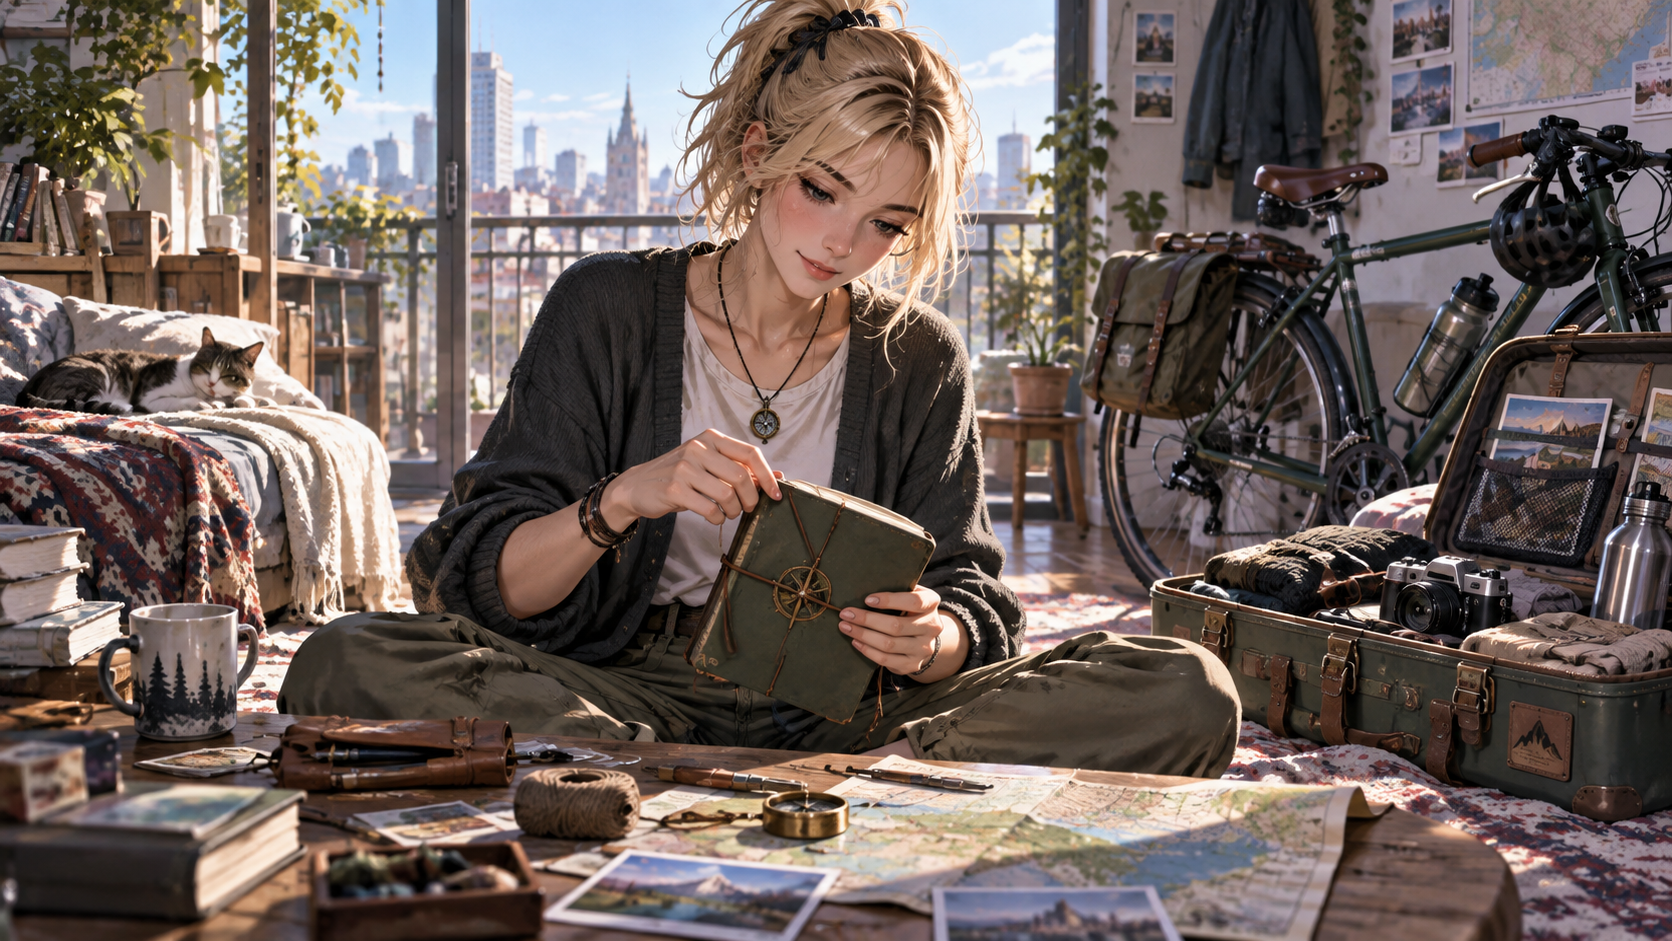
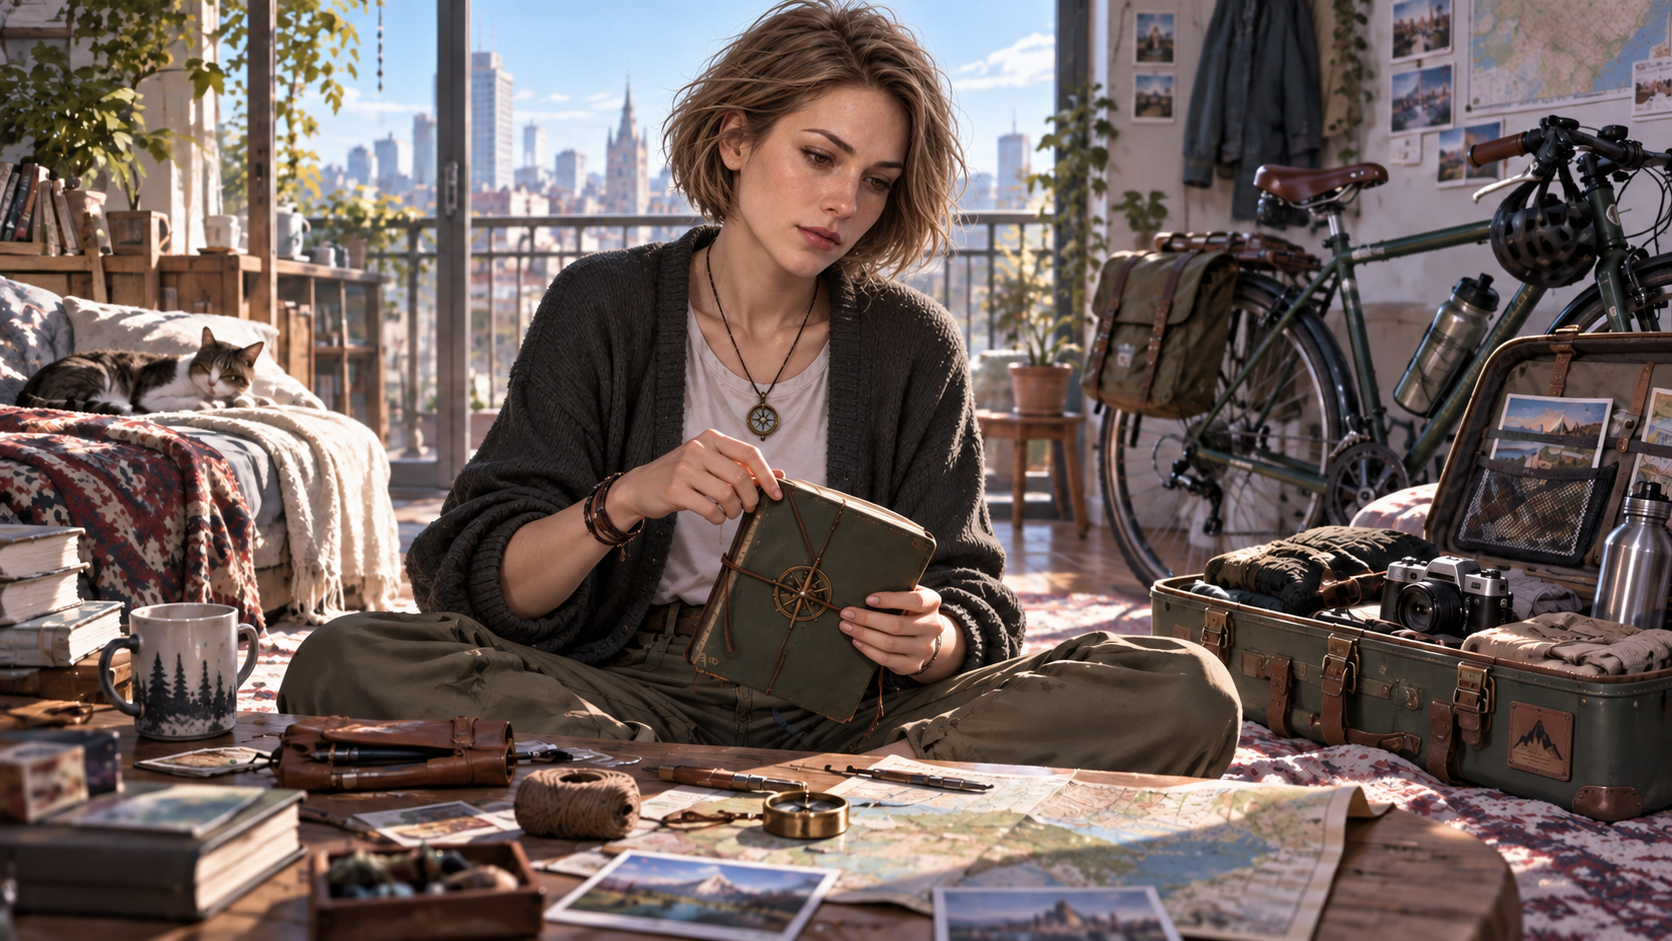
Update epilogue CG artwork

diff --git a/docs/CHARACTER_IDENTITY_AUDIT_2026-09-23.md b/docs/CHARACTER_IDENTITY_AUDIT_2026-09-23.md
@@ -1,0 +1,32 @@
+# Character identity audit — 2026-09-23
+
+## Verdict
+
+`PASS` for the four repaired epilogue CGs and the reviewed existing route-CG set. The original S44–S47 generation batch was rejected for identity drift and replaced using the corresponding `*-master.png` references.
+
+## Acceptance evidence
+
+- Alice: short tousled light-brown bob, amber eyes, facial proportions and burgundy scarf anchor retained in S44, S45, S46 and S47.
+- Eric: sandy tousled hair, blue eyes and short beard retained in S44.
+- Nick: dark curly hair, warm brown eyes, light stubble and camera-maker visual language retained in S45.
+- Damir: black swept hair, dark eyes, facial-hair pattern, cream coat and burgundy scarf retained in S46.
+
+Comparative panels:
+
+- `artifacts/evidence/identity-comparison-alice.svg`
+- `artifacts/evidence/identity-comparison-eric.svg`
+- `artifacts/evidence/identity-comparison-nick.svg`
+- `artifacts/evidence/identity-comparison-damir.svg`
+
+The existing route-CG set (`eric-route-hand`, `nick-route-editing`, `damir-route-letter`, `alice-independent-ending`, `eric-myvattn-dawn`, `nick-akureyri-edit`, `damir-road-letter`) was visually checked against the same masters and retained; no material identity drift was found.
+
+## Scope and limitations
+
+This is an artistic recognizability acceptance, not a substitute for browser/runtime or narrative tests. The repaired files preserve the existing filenames and visual-event routing, so no scenario logic change was required.
+
+## Automated checks
+
+- `npm run literary:compile` — PASS (`66 scenes`, `619 chunks`).
+- `npm run test:narrative` — PASS.
+- Asset ledger and manifest JSON — PASS.
+- Browser launch was attempted through the project preview server; Playwright CLI was blocked by the host because WSL2 is unavailable (`HCS_E_HYPERV_NOT_INSTALLED`). This is recorded as an environment limitation, not a visual identity failure.
